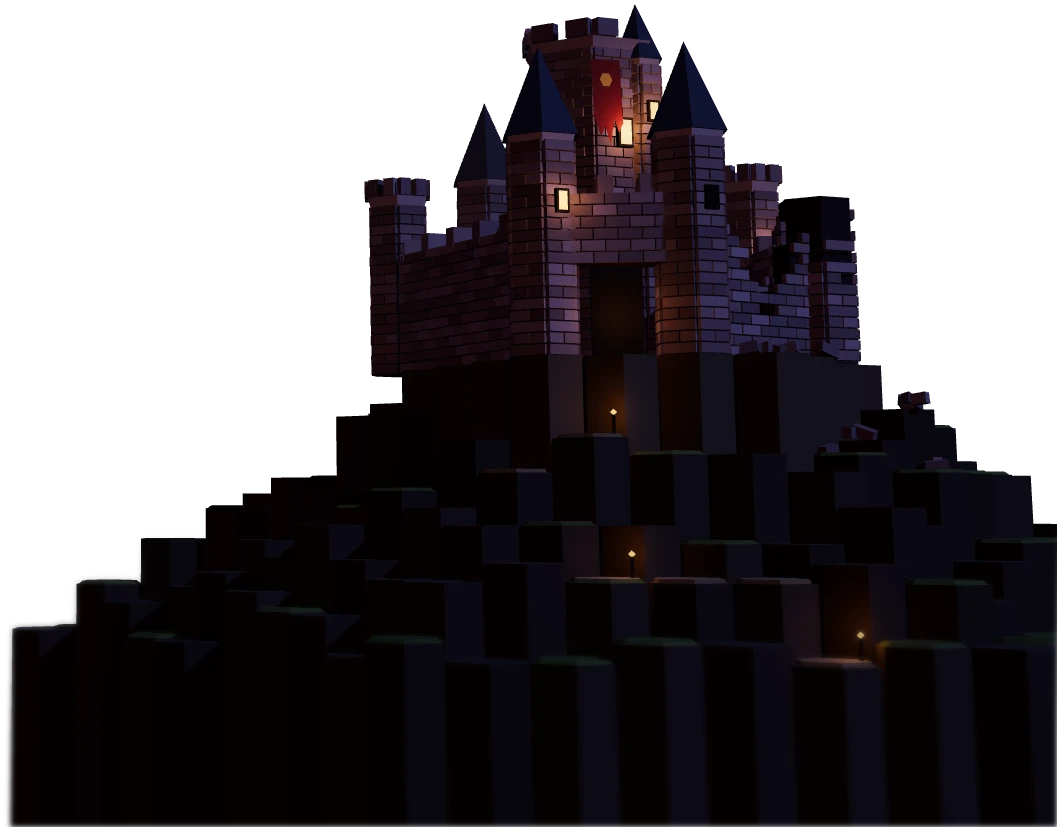
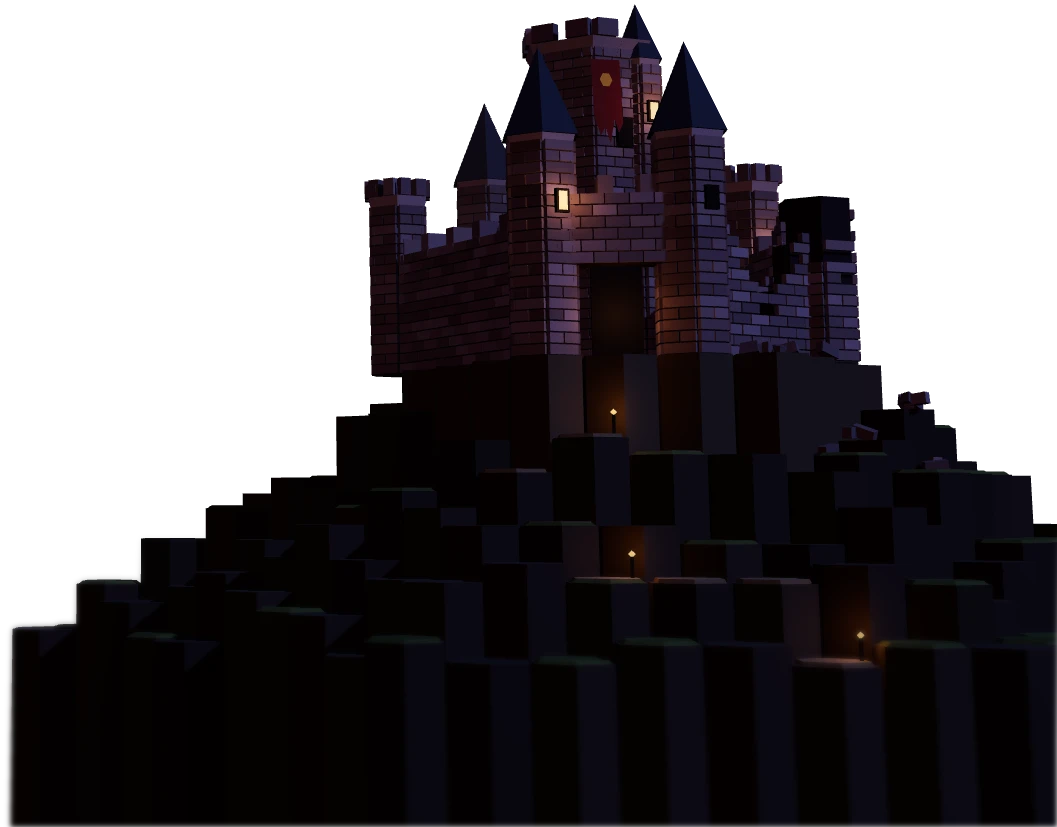
V5.3.1: the eye in the keep window is the title's tease; Dragon variants removed
The owner chose option B on board 12: the keep's high window is dark and
one ember eye looks out of it, blinking. It is now part of the baked
castle (rebaked); the asleep-on-the-keep variant, TITLE_DRAGON and
?titleCastle= are gone, and the bake's inputs drop dragon.ts and rig.ts.
The title check and the bake test expect exactly one eye. Spec 36.4,
decisions, changelog.

Claude-Session: https://claude.ai/code/session_01HnTQx2rrVhwj5PLpWtBjZe

Changed region(s): [[0.562, 0.0907, 0.6244, 0.2116]]

diff --git a/src/ui/camp/title-scene.ts b/src/ui/camp/title-scene.ts
@@ -6,9 +6,8 @@
 // Valkenburg on a crag of hex basalt columns, terraced like the board: a hex keep, hex towers, curtain walls, all
 // clad in the walls' bricks (WALL_LOOK). It has gone dark: a broken tower, a breached wall, rubble, a torn banner,
 // most windows black and a few still lit. Moonlight from the right, Lowgate's warm glow from below, haze at the foot,
-// a lantern-lit path of hex steps down toward the village. `dragon` is a tease of Level 3, behind the title's
-// TITLE_DRAGON switch until the owner has picked one: 'asleep' coils the game's sleeping Dragon on the keep's roof
-// (the title moves the moon behind it); 'peek' darkens the keep's high window and puts one ember eye in it.
+// a lantern-lit path of hex steps down toward the village. The tease of Level 3 (the owner's pick, V5.3.1): the
+// keep's high window is dark, and one ember eye looks out of it (the title draws and blinks it).
 //
 // Changing this file changes the hash in public/title/manifest.json; src/ui/camp/title-bake.test.ts fails until the
 // title is baked again.
@@ -16,10 +15,6 @@
 import * as THREE from 'three';
 import { bevelGeometry } from '../../view/look/floors';
 import { WALL_LOOK } from '../../view/look/walls';
-import { makeDragon } from '../../view/look/dragon';
-import { rigMaterials } from '../../view/look/keven';
-
-export type DragonTease = 'none' | 'asleep' | 'peek';
 
 export interface TitleGlow {
   /** Stage px (1920x1080). */
@@ -83,7 +78,7 @@ interface Built {
   dispose(): void;
 }
 
-export function buildTitleCastle(dragon: DragonTease = 'none'): Built {
+export function buildTitleCastle(): Built {
   const R = rng(1980);
   const scene = new THREE.Scene();
   const disposables: { dispose(): void }[] = [];
@@ -240,8 +235,8 @@ export function buildTitleCastle(dragon: DragonTease = 'none'): Built {
   const front = (f: number) => faceAt(K.x, K.y, keepR, f, 0.08);
   for (const [f, y, lit, big] of [[0, 6.3, true, true], [0, 4.2, false, false], [5, 5.2, false, false], [1, 3.3, false, false], [0, 2.0, false, false]] as const) {
     const p = front(f);
-    // 'peek': the keep's high window is dark, and something looks out of it.
-    const eye = dragon === 'peek' && big;
+    // The keep's high window is dark, and something looks out of it.
+    const eye = big;
     windowAt(p.x, TOP + y, p.z, p.ang, lit && !eye, big);
     if (eye) glows.push({ at: new THREE.Vector3(p.x + 0.06, TOP + y + 0.12, p.z + 0.12), r: 12, kind: 'eye' });
   }
@@ -414,37 +409,6 @@ export function buildTitleCastle(dragon: DragonTease = 'none'): Built {
     }
   }
 
-  // ---------------------------------------------------------- the Dragon (a tease, off unless asked for)
-  let dragonFig: ReturnType<typeof makeDragon> | null = null;
-  if (dragon === 'asleep') {
-    const mats = rigMaterials();
-    for (const m of Object.values(mats)) disposables.push(m);
-    // In the keep's shadow: the game's red, darkened; its own eyes stay lit (the rig's glow material).
-    (mats.body as THREE.MeshStandardMaterial).color.setRGB(0.42, 0.36, 0.4);
-    (mats.metal as THREE.MeshStandardMaterial).color.setRGB(0.5, 0.45, 0.5);
-    dragonFig = makeDragon(true, mats);
-    dragonFig.update(0, 1.2);
-    const o = dragonFig.object;
-    o.scale.setScalar(1.25);
-    // Coiled on the keep's roof, its head toward Lowgate (the title puts the moon behind it).
-    o.position.set(K.x - 0.1, TOP + keepH + 0.2, K.y - 0.25);
-    o.rotation.y = -1.75;
-    o.traverse((c) => {
-      if ((c as THREE.Mesh).isMesh) c.castShadow = true;
-    });
-    scene.add(o);
-    o.updateMatrixWorld(true);
-    // The ember eye: the rig's eye nearest Lowgate (largest z), glowing on the title.
-    let best: THREE.Vector3 | null = null;
-    o.traverse((c) => {
-      const m = c as THREE.Mesh;
-      if (!m.isMesh || m.material !== mats.glow) return;
-      const at = new THREE.Box3().setFromObject(m).getCenter(new THREE.Vector3());
-      if (!best || at.z > best.z) best = at;
-    });
-    if (best) glows.push({ at: best, r: 14, kind: 'eye' });
-  }
-
   // ---------------------------------------------------------- the bricks, as one instanced mesh
   const inst = new THREE.InstancedMesh(brickGeo, brickMat, bricks.length);
   bricks.forEach((b, i) => {
@@ -473,7 +437,6 @@ export function buildTitleCastle(dragon: DragonTease = 'none'): Built {
     scene,
     glows,
     dispose() {
-      dragonFig?.dispose();
       for (const d of disposables) d.dispose();
       inst.dispose();
     },
@@ -484,7 +447,7 @@ export function buildTitleCastle(dragon: DragonTease = 'none'): Built {
  * Render the castle at `scale` (1 = 1920x1080), with the diorama's soft focus at the foot of the crag, cropped to
  * what was drawn. Returns the crop as a data URL and where it and its lights sit on the stage.
  */
-export function renderTitleCastle(scale = 1, dragon: DragonTease = 'none', type = 'image/webp', quality = 0.9): TitleBake | null {
+export function renderTitleCastle(scale = 1, type = 'image/webp', quality = 0.9): TitleBake | null {
   const W = Math.round(STAGE_W * scale), H = Math.round(STAGE_H * scale);
   const canvas = document.createElement('canvas');
   let r: THREE.WebGLRenderer;
@@ -501,7 +464,7 @@ export function renderTitleCastle(scale = 1, dragon: DragonTease = 'none', type 
   r.toneMappingExposure = 1.0;
   r.shadowMap.enabled = true;
   r.shadowMap.type = THREE.PCFShadowMap;
-  const built = buildTitleCastle(dragon);
+  const built = buildTitleCastle();
   const cam = new THREE.PerspectiveCamera(CAMERA.fov, W / H, 0.5, 200);
   cam.position.set(...CAMERA.pos);
   cam.lookAt(new THREE.Vector3(...CAMERA.look));

diff --git a/src/ui/camp/title.ts b/src/ui/camp/title.ts
@@ -329,7 +329,7 @@ const GEAR = '<svg viewBox="0 0 24 24" fill="none" stroke="currentColor" stroke-
 
 // ------------------------------------------------------------ the scene
 
-/** V5.3 (spec 36): the baked castles (scripts/v53-bake-title.mjs writes one manifest per bake). */
+/** V5.3 (spec 36): the baked castle (scripts/v53-bake-title.mjs writes its manifest). */
 const BAKES = import.meta.glob<TitleBakeManifest>('./title-bake/*.json', { eager: true, import: 'default' });
 interface TitleBakeManifest {
   file: string;
@@ -340,23 +340,8 @@ interface TitleBakeManifest {
   h: number;
   glows: { x: number; y: number; r: number; kind: 'window' | 'gate' | 'lantern' | 'eye' }[];
 }
-/**
- * The Dragon on the keep (spec 36.4): '' until the owner has seen the tease; 'asleep' or 'peek' picks a baked
- * variant. A preview can ask for any bake with ?titleCastle=<stem>.
- */
-export const TITLE_DRAGON: '' | 'asleep' | 'peek' = '';
-
-function castleBake(): (TitleBakeManifest & { stem: string }) | null {
-  let stem = TITLE_DRAGON ? `castle-dragon-${TITLE_DRAGON}` : 'castle';
-  try {
-    const q = new URLSearchParams(location.search).get('titleCastle');
-    if (q && /^[a-z0-9-]+$/.test(q)) stem = q;
-  } catch {
-    /* no location */
-  }
-  if (!BAKES[`./title-bake/${stem}.json`]) stem = 'castle';
-  const m = BAKES[`./title-bake/${stem}.json`];
-  return m ? { ...m, stem } : null;
+function castleBake(): TitleBakeManifest | null {
+  return BAKES['./title-bake/castle.json'] ?? null;
 }
 
 /** Lowgate's cottages that light up as their people come home (Aldric, Wim, Gerda, Ilse), in the village's units. */
@@ -374,7 +359,7 @@ const HOMES: [number, number, number, number][] = [
  */
 function scene(villagers: number): HTMLElement {
   const bake = castleBake();
-  const s = h('div', { class: `t-scene${bake ? ` bake-${bake.stem}` : ''}`, 'aria-hidden': 'true' });
+  const s = h('div', { class: 't-scene', 'aria-hidden': 'true' });
   const base = import.meta.env.BASE_URL;
   const homes = HOMES.map(([x, y, cx, cy], i) => {
     const on = i < villagers;

diff --git a/src/ui/camp/title-bake.test.ts b/src/ui/camp/title-bake.test.ts
@@ -3,12 +3,12 @@
 // fails here; its images exist; it sits on the stage and its lights fall inside it.
 import { describe, expect, it } from 'vitest';
 
-const REBAKE = 'Run `node scripts/v53-bake-title.mjs` (and DRAGON=asleep / peek for the Dragon variants) and commit public/title and src/ui/camp/title-bake.';
-const INPUTS = ['src/ui/camp/title-scene.ts', 'src/view/look/floors.ts', 'src/view/look/walls.ts', 'src/view/look/dragon.ts', 'src/view/look/rig.ts'];
+const REBAKE = 'Run `node scripts/v53-bake-title.mjs` and commit public/title and src/ui/camp/title-bake.';
+const INPUTS = ['src/ui/camp/title-scene.ts', 'src/view/look/floors.ts', 'src/view/look/walls.ts'];
 
 const sources: Record<string, string> = Object.fromEntries(
   Object.entries(
-    import.meta.glob<string>(['/src/ui/camp/title-scene.ts', '/src/view/look/floors.ts', '/src/view/look/walls.ts', '/src/view/look/dragon.ts', '/src/view/look/rig.ts'], {
+    import.meta.glob<string>(['/src/ui/camp/title-scene.ts', '/src/view/look/floors.ts', '/src/view/look/walls.ts'], {
       query: '?raw',
       import: 'default',
       eager: true,
@@ -41,6 +41,9 @@ describe('the baked title castle', () => {
       it('has its images', () => {
         expect(images.has(m.file), `${m.file}: ${REBAKE}`).toBe(true);
         expect(images.has(m.file2x), `${m.file2x}: ${REBAKE}`).toBe(true);
+      });
+      it('has one eye in the keep window (the tease of Level 3)', () => {
+        expect(m.glows.filter((g) => g.kind === 'eye')).toHaveLength(1);
       });
       it('sits on the stage, right of the lockup, with its lights inside it', () => {
         expect(m.x).toBeGreaterThanOrEqual(700);

diff --git a/src/ui/camp/title.css b/src/ui/camp/title.css
@@ -178,6 +178,5 @@
 }
 .camp.title-screen.arriving:not(.settled) .t-glow{animation:t-lamp .45s both;animation-delay:calc(.8s + var(--i) * .07s)}
 .camp.title-screen.arriving:not(.settled) .t-castle-img{animation:t-fade .6s .2s both}
-/* the Dragon tease (spec 36.4): asleep, the moon rises behind the keep so the Dragon reads as a silhouette */
-.t-scene.bake-castle-dragon-asleep .t-moon{left:1372px;top:176px;width:150px;height:150px}
+/* the eye in the keep's window (spec 36.4): a slit at the glow's heart */
 .t-glow.k-eye::after{content:'';position:absolute;left:50%;top:50%;width:7px;height:2.5px;margin:-1.25px 0 0 -3.5px;border-radius:50%;background:#ffe9a0;box-shadow:0 0 4px 1px rgba(255,190,60,.9)}

diff --git a/src/ui/app.ts b/src/ui/app.ts
@@ -22,7 +22,7 @@ import { DEFAULT_DISTANCE } from '../view/camera'; // V5.0 G: camera default
 
 export const SAVE_KEY = 'vc.save.v39';
 /** The version line on the title screen. */
-export const GAME_VERSION = 'V5.3';
+export const GAME_VERSION = 'V5.3.1';
 
 const ACTION_SFX: Partial<Record<import('../game/types').ActionKind, import('../audio/sfx').Sfx>> = {
   pick: 'pick',

diff --git a/docs/v3-spec.md b/docs/v3-spec.md
@@ -1633,11 +1633,11 @@ Approved mockups: boards 8–10 of the Claude Design canvas "Lowgate V5.1 Camp S
 
 ## 36. V5.3 the title's castle (owner, 2026-10-29)
 
-Approved pitch: board 11 on the "Lowgate V5.1 Camp Screens" canvas (with both extras); the Dragon tease waits on board 12. UI only: no rule, command or save change.
+Approved pitch: board 11 on the "Lowgate V5.1 Camp Screens" canvas (with both extras); the tease chosen on board 12 (B, V5.3.1). UI only: no rule, command or save change.
 
 ### 36.1 The baked castle
 - `src/ui/camp/title-scene.ts` builds Valkenburg in the V5 look: a crag of hex basalt columns (the floors' bevelled hex prisms, terraced, mossy ledges), a hex keep with a stair turret, six ring towers and curtain walls, all clad in running-bond bricks in the walls' palette (`WALL_LOOK`) over a mortar core. Gone dark: one tower fallen in, one wall breached, rubble on the ground, two merlons missing, the Hobart banner torn; most windows black, four lit, a glimmer in the gate; a path of hex steps down the front with a few lanterns. Moonlight from the right (with shadows), a low warm light from Lowgate, haze (fog) at the foot.
-- It is not shipped as code: `scripts/v53-bake-title.mjs` renders it in headless Chromium from the dev server at 1× and 2×, softens the crag's foot (the diorama's tilt-shift, done in 2D), crops to what was drawn, and writes `public/title/castle.webp` and `castle@2x.webp` (about 35 KB and 80 KB) and `src/ui/camp/title-bake/castle.json`: where the image sits on the 1920×1080 stage, its lights in stage px (`window`, `gate`, `lantern`, `eye`), and a hash of the inputs (title-scene, floors, walls, dragon, rig). `src/ui/camp/title-bake.test.ts` fails when the hash no longer matches (rebake), when an image is missing, or when the castle or a light leaves its place.
+- It is not shipped as code: `scripts/v53-bake-title.mjs` renders it in headless Chromium from the dev server at 1× and 2×, softens the crag's foot (the diorama's tilt-shift, done in 2D), crops to what was drawn, and writes `public/title/castle.webp` and `castle@2x.webp` (about 35 KB and 80 KB) and `src/ui/camp/title-bake/castle.json`: where the image sits on the 1920×1080 stage, its lights in stage px (`window`, `gate`, `lantern`, `eye`), and a hash of the inputs (title-scene, floors, walls). `src/ui/camp/title-bake.test.ts` fails when the hash no longer matches (rebake), when an image is missing, or when the castle or a light leaves its place.
 - The title shows the image (with `srcset`), fades its left edge into the dusk, and draws each light as a CSS glow that flickers. If the image can't load, the V5.2 silhouette comes back.
 
 ### 36.2 Movement (CSS, all off with reduced motion)
@@ -1646,5 +1646,5 @@ Approved pitch: board 11 on the "Lowgate V5.1 Camp Screens" canvas (with both ex
 ### 36.3 Lowgate reflects the campaign (extra 1)
 - Four cottages in Lowgate's silhouette belong to Aldric, Wim, Gerda and Ilse: each villager home (the save's `villagersHome`, live saves only) lights one more window and sets its chimney smoking.
 
-### 36.4 The Dragon tease (extra 2, not on yet)
-- `TITLE_DRAGON` in `src/ui/camp/title.ts` ('' today). `'asleep'`: the game's sleeping Dragon (`makeDragon(true)`, darkened) coiled on the keep's roof, the moon moved behind it so it reads as a silhouette, its own eye glowing and blinking. `'peek'`: no Dragon; the keep's high window goes dark and one ember eye looks out of it. Both are baked (`DRAGON=asleep|peek`), shipped, and can be seen on the live site with `?titleCastle=castle-dragon-asleep` or `?titleCastle=castle-dragon-peek`.
+### 36.4 The eye in the window (extra 2; owner's pick, V5.3.1)
+- The keep's high window, the brightest on the castle, is dark, and one ember eye looks out of it: a warm glow with a slit at its heart that blinks every few seconds (`k-eye`, CSS). It is part of the baked castle (no variant, no switch). The owner chose it over the Dragon asleep on the keep against the moon (board 12) because it doesn't give everything away at first glance. The variants, `TITLE_DRAGON` and `?titleCastle=` are gone; the bake's inputs are title-scene, floors and walls.

diff --git a/docs/v3-changes.md b/docs/v3-changes.md
@@ -6,6 +6,8 @@ V3 rebuilt the game as a turn-based extraction crawler, following the V3 Game De
 
 ## Since launch
 
+- **V5.3.1 (2026-10-29):** **Look closely at the keep.** Its highest window has gone dark, and something in it is looking back.
+
 - **V5.3, the castle (2026-10-29):** **Valkenburg on the title is a figurine now,** built like the castle you delve: brick towers and walls on a crag of hex stone, lit by the moon. It has gone dark: a tower has fallen in, a wall is breached, the Hobart banner hangs in rags, and only a few windows still glow (they flicker; so do the lanterns on the path up). Mist drifts at its foot, and now and then a crow crosses the sky. **Lowgate shows your progress:** every villager you bring home lights a cottage window, and its chimney smokes.
 
 - **V5.2, the title screen (2026-10-29):** **The first screen is new.** Valkenburg stands on its crag at dusk with Lowgate's fire below, and one card tells you where your campaign stands before you click: your heroes, your gold, who's home and who's in the graves; saved inside the castle, which level and round, and how much light is left. **Continue** (or Enter) picks it up. **New campaign** asks once before it buries a save, right there on the card. **Every run is remembered:** when Keven falls, the next start says how the last run ended and which run this is. **Settings and keys** are in the top corner, so you can set the quality or playback speed before you go in. The seed hides behind "Choose a seed".

diff --git a/docs/decisions.md b/docs/decisions.md
@@ -328,3 +328,4 @@ The V3 Game Design Document: https://claude.ai/artifact/Q7766w5bBz11paXkw4YPf1
 - **2026-10-29** V5.3: the title's castle is built in the V5 look (hex crag, bricks from the walls, a Dragon from the rig) and baked into an image by a script, with a hash test like the busts. Reason: the castle should look like the game's own diorama, while the first screen stays instant and the same on every machine; lights, mist, smoke and the crow stay CSS so it still moves.
 - **2026-10-29** V5.3: Lowgate's silhouette lights one cottage (and its chimney) per villager home. Reason: the owner wants the "rebuild the village" pillar felt from the first screen; it costs nothing because the village is the page's own SVG.
 - **2026-10-29** V5.3: the Dragon tease ships baked but switched off (`TITLE_DRAGON`), with two variants viewable by URL. Reason: the owner wants to judge the execution before it goes on.
+- **2026-10-29** V5.3.1: the tease of Level 3 on the title is one ember eye in the keep's dark high window (board 12, option B), baked into the castle; the Dragon-on-the-keep variant and the switch are removed. Reason: the owner wants it subtle, so it doesn't give everything away at first glance.
